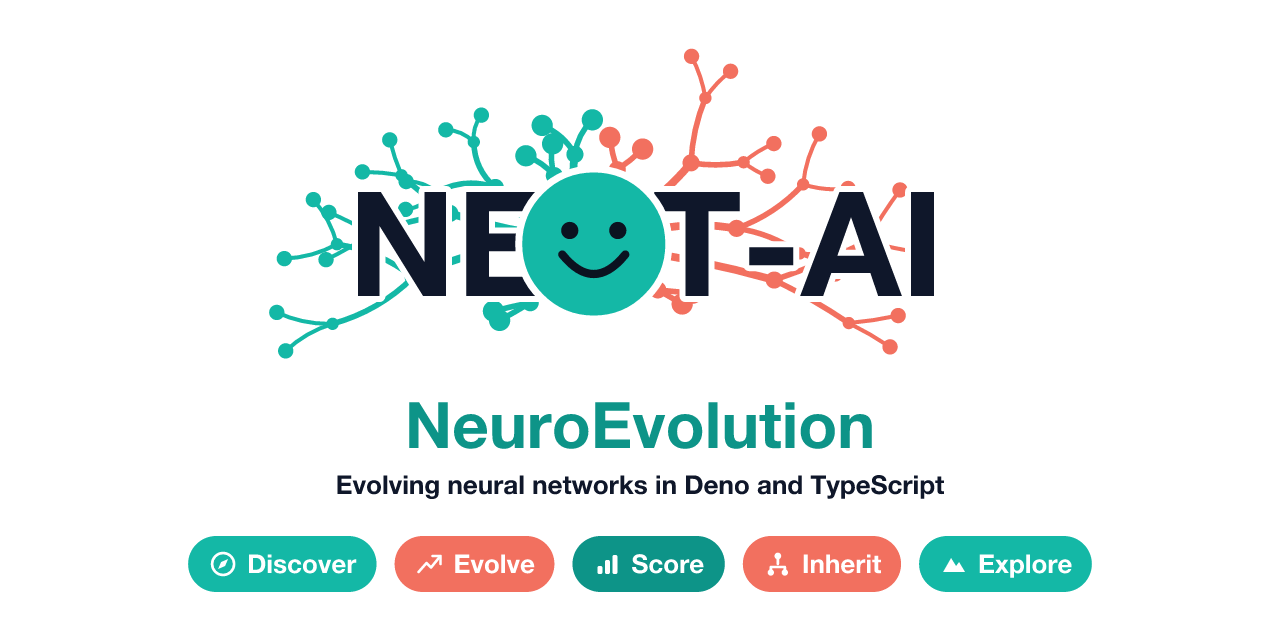
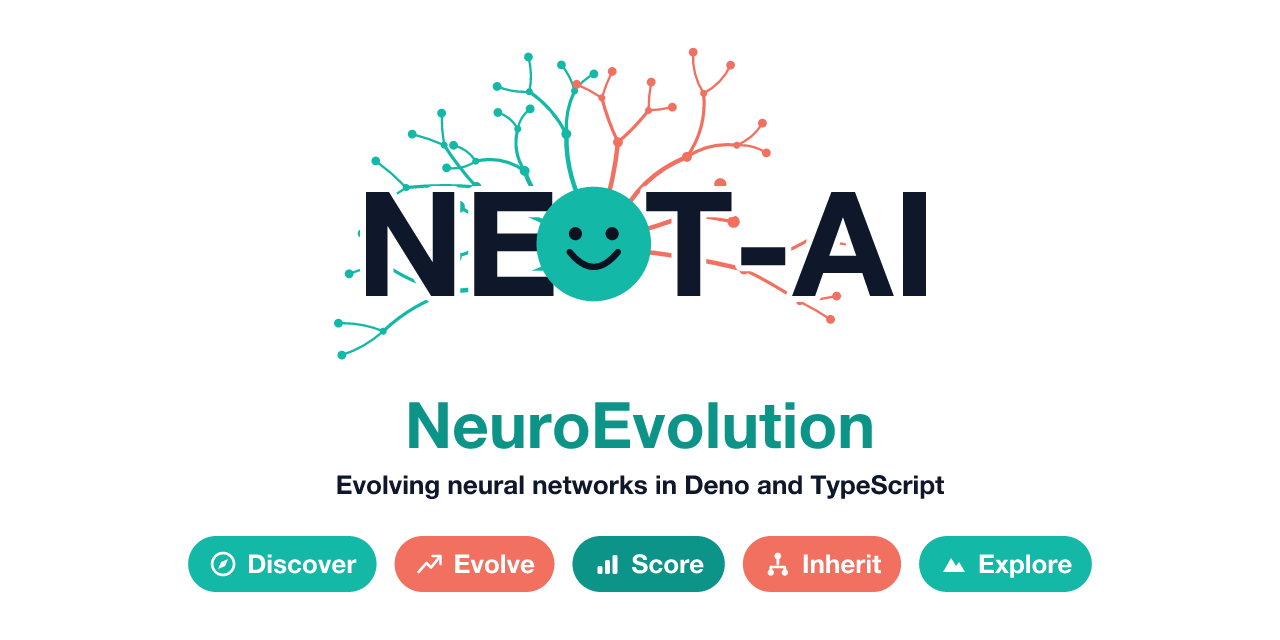
fix: match the original neuron A, keep the transparent canvas.
Round smiley soma with apical dendrites like the v6.6.3 GitHub card,
without the solid background that prompted the #3764 regeneration.

Changed region(s): [[0.1875, 0.0625, 0.75, 0.5625], [0.6875, 0.5312, 0.7188, 0.5625]]

diff --git a/scripts/brand/preview_art.ts b/scripts/brand/preview_art.ts
@@ -185,17 +185,17 @@ interface Primary {
  * the original organic hero does.
  */
 const PRIMARIES: Primary[] = [
-  { angle: -172, length: 190, depth: 2, coral: false },
-  { angle: -148, length: 160, depth: 2, coral: false },
-  { angle: -119, length: 95, depth: 1, coral: false },
-  { angle: -95, length: 100, depth: 1, coral: false },
-  { angle: -71, length: 95, depth: 1, coral: true },
-  { angle: -36, length: 160, depth: 2, coral: true },
-  { angle: -8, length: 190, depth: 2, coral: true },
-  { angle: 166, length: 250, depth: 2, coral: false },
-  { angle: 140, length: 100, depth: 1, coral: false },
-  { angle: 14, length: 250, depth: 2, coral: true },
-  { angle: 40, length: 100, depth: 1, coral: true },
+  // Apical fan — the neuron look of the original A (Issue #3781).
+  { angle: -158, length: 175, depth: 2, coral: false },
+  { angle: -132, length: 145, depth: 2, coral: false },
+  { angle: -105, length: 165, depth: 2, coral: false },
+  { angle: -78, length: 145, depth: 2, coral: true },
+  { angle: -48, length: 175, depth: 2, coral: true },
+  { angle: -22, length: 125, depth: 1, coral: true },
+  { angle: -178, length: 125, depth: 1, coral: false },
+  // Lateral wraps behind the letters, not downward "legs".
+  { angle: 168, length: 200, depth: 2, coral: false },
+  { angle: 12, length: 200, depth: 2, coral: true },
 ];
 
 /**
@@ -329,15 +329,15 @@ function dendrites(
   for (const primary of PRIMARIES) {
     const angle = primary.angle + (random() - 0.5) * 12;
     const radians = (angle * Math.PI) / 180;
-    // Issue #3781: start under the round soma so the first segment reads as a
-    // dendrite trunk leaving the cell, not a tree floating behind it.
-    const startR = radius * 0.55;
+    // Issue #3781: leave the round soma at the rim so trunks read as dendrites
+    // growing out of the cell (the original neuron A), not a tree behind it.
+    const startR = radius * 0.92;
     grow(
       cx + Math.cos(radians) * startR,
       cy + Math.sin(radians) * startR,
       angle,
       primary.length * (0.9 + random() * 0.2),
-      13,
+      8,
       primary.depth,
       (random() - 0.5) * 0.5,
       primary.coral ? palette.coral : palette.teal,
@@ -357,14 +357,14 @@ function dendrites(
   const halo = segments
     .map((s) =>
       `<path d="${s.d}" stroke="${palette.halo}" stroke-width="${
-        n(s.width + 7)
+        n(s.width + 4)
       }" fill="none" stroke-linecap="round"/>`
     )
     .join("") +
     dots
       .map((d) =>
         `<circle cx="${n(d.x)}" cy="${n(d.y)}" r="${
-          n(d.r + 3.5)
+          n(d.r + 2)
         }" fill="${palette.halo}"/>`
       )
       .join("");
@@ -388,15 +388,15 @@ function dendrites(
 /**
  * The smiley soma that stands in for the "A" of NEAT-AI (Issue #3781).
  *
- * A round, friendly cell body — the neuron look comes from dendrite trunks
- * leaving this disc, not from an irregular lumpy silhouette.
+ * Round and friendly — the original neuron look is this disc plus dendrites
+ * growing out of the top, not a white-ringed sticker or a lumpy silhouette.
+ * Teal already reads on light and dark pages, so the soma has no halo stroke.
  */
 function soma(cx: number, cy: number, r: number, palette: Palette): string {
   const eyeR = r * 0.115;
   const eyeY = cy - r * 0.18;
   return [
-    `<circle cx="${n(cx)}" cy="${n(cy)}" r="${n(r)}" fill="${palette.teal}" `,
-    `stroke="${palette.halo}" stroke-width="7"/>`,
+    `<circle cx="${n(cx)}" cy="${n(cy)}" r="${n(r)}" fill="${palette.teal}"/>`,
     `<circle cx="${n(cx - r * 0.32)}" cy="${n(eyeY)}" r="${
       n(eyeR)
     }" fill="${SOMA_DETAIL}"/>`,
@@ -510,8 +510,8 @@ export function buildPreviewSvg(
   const left = measure("NE", WORDMARK_SIZE, WORDMARK_WEIGHT);
   const right = measure("T-AI", WORDMARK_SIZE, WORDMARK_WEIGHT);
   const capHeight = left.height;
-  const somaRadius = capHeight * 0.72;
-  const overlap = somaRadius * 0.22;
+  const somaRadius = capHeight * 0.55;
+  const overlap = somaRadius * 0.12;
   const lockupWidth = left.width + right.width + somaRadius * 2 - overlap * 2;
   const startX = (PREVIEW_WIDTH - lockupWidth) / 2;
   const somaX = startX + left.width + somaRadius - overlap;

diff --git a/test/docs/BrandPreviewSvg.ts b/test/docs/BrandPreviewSvg.ts
@@ -73,10 +73,10 @@ Deno.test("the soma is a friendly round neuron with a smiley face", () => {
   const svg = buildPreviewSvg(HUB, paletteFor("transparent"), stubMeasure);
   const teal = paletteFor("transparent").teal;
   assert(
-    new RegExp(`<circle cx="[^"]+" cy="[^"]+" r="[^"]+" fill="${teal}"`).test(
+    new RegExp(`<circle cx="[^"]+" cy="[^"]+" r="[^"]+" fill="${teal}"/>`).test(
       svg,
     ),
-    "Issue #3781: the A is a round cell body, not a lumpy silhouette",
+    "Issue #3781: the A is a round teal soma without a sticker-like halo ring",
   );
   // Smiley face: two filled eyes plus a stroke smile.
   assert(
